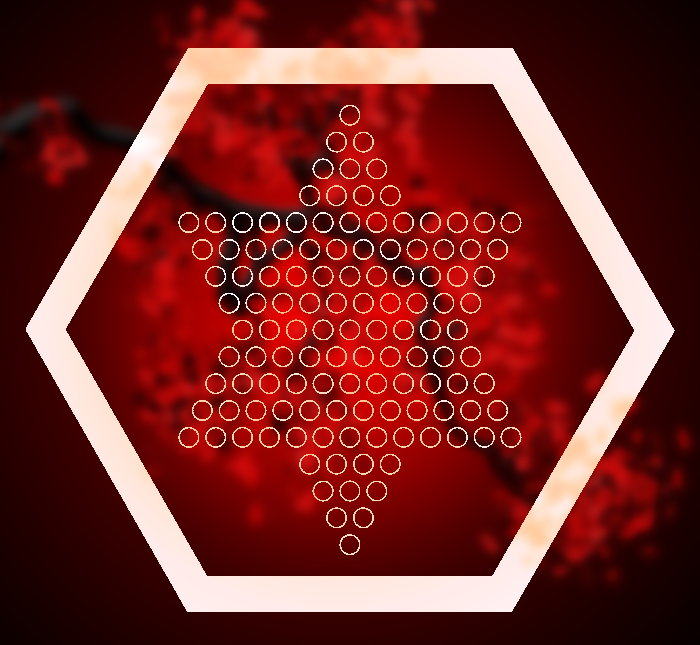
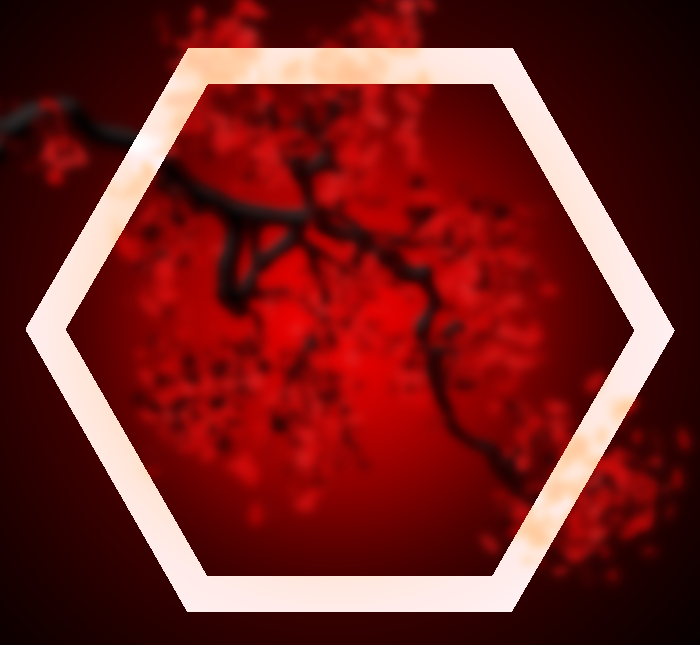
now it works nicely

Changed region(s): [[0.27, 0.186, 0.72, 0.8682]]

diff --git a/src/checkers/frontend/BoardView.java b/src/checkers/frontend/BoardView.java
@@ -101,6 +101,10 @@ public class BoardView extends AbstractView implements Observer {
                     }
                     graphics.drawImage(players_pawn_image, width, height, null);
                 }
+                else if (board.getTiles()[x][y].available_getter()) {
+                    players_pawn_image = (BufferedImage) AssetsLoader.load("src/assets/area_checked.png", "image");
+                    graphics.drawImage(players_pawn_image, width, height, null);
+                }
                 width += pawn_width;
             }
             height += pawn_height;

diff --git a/src/checkers/backend/GameField.java b/src/checkers/backend/GameField.java
@@ -7,7 +7,7 @@ import kernel.backend.AbstractField;
  */
 public class GameField extends AbstractField {
 
-    boolean available_getter() {
+    public boolean available_getter() {
         return available;
     }
 
